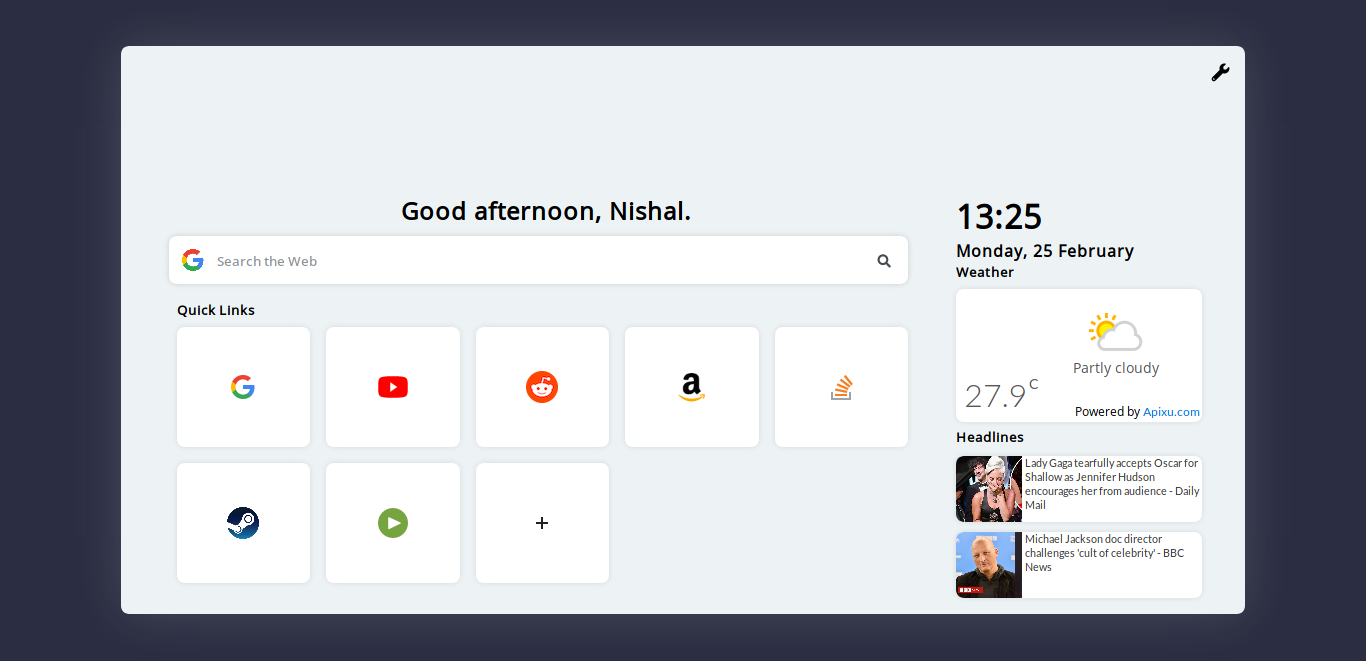
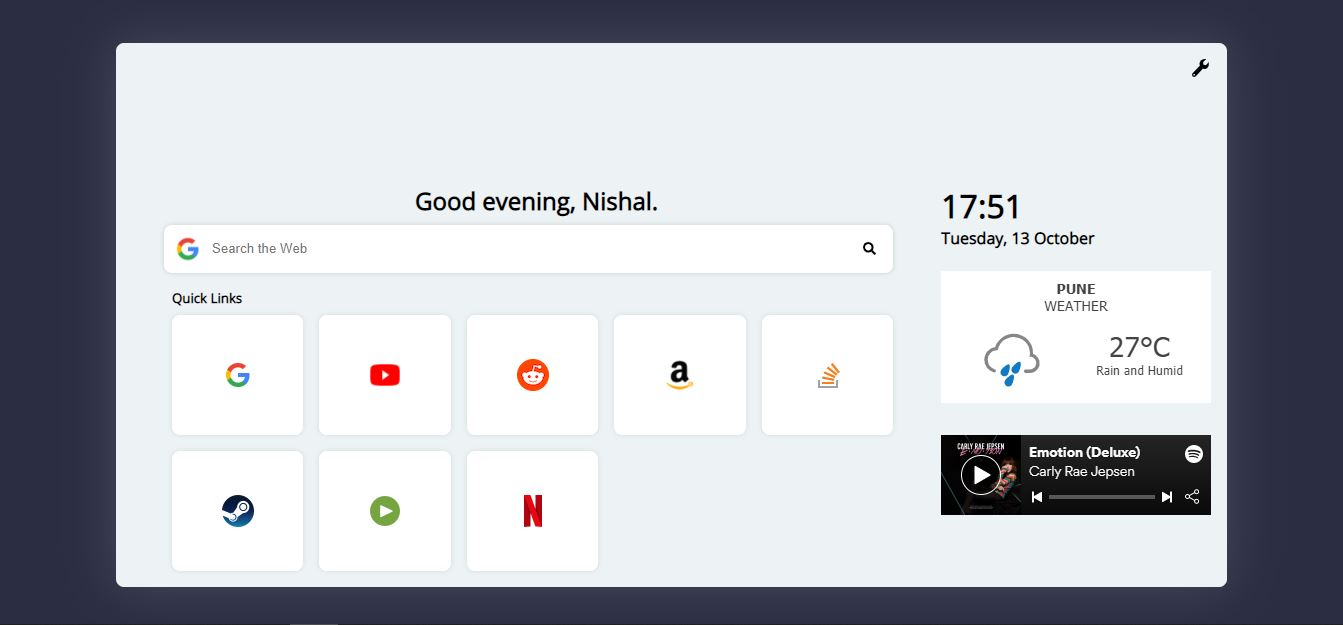
Added Widgets

diff --git a/index.html b/index.html
@@ -44,7 +44,7 @@
             <a href="https://www.amazon.in"><img src="https://www.amazon.in/favicon.ico" width="32px" /></a>
           </div>
           <div class="link-tab">
-            <a href="https://www.stackoverflow.com"><img src="https://www.stackoverflow.com/favicon.ico" width="32px" /></a>
+            <a href="https://www.stackoverflow.com"><img src="https://cdn.sstatic.net/Sites/stackoverflow/img/favicon.ico" width="32px" /></a>
           </div>
           <div class="link-tab">
             <a href="https://www.steamcommunity.com"><img src="https://www.steamcommunity.com/favicon.ico" width="32px" /></a>
@@ -53,7 +53,7 @@
             <a href="https://www.primevideo.com"><img src="https://www.primevideo.com/favicon.ico" width="32px" /></a>
           </div>
           <div class="link-tab add-tab">
-            <a href="https://www.google.com"></a>
+            <a href="https://www.netflix.com"><img src="https://www.netflix.com/favicon.ico" width="32px" /></a>
           </div>
         </div>
       </div>
@@ -64,26 +64,23 @@
         <h1 id="clock"></h1>
         <h4 id="date"></h4>
       </div>
+      <br>
       <div class="weather">
-        <h5>Weather</h5>
+        
         <div class="weather-card">
-          <h1 id="temp" class="temperature">29<span>C</span></h1>
-          <div id="temp-icon" class="weather-icon">
-            <p id="icon-description"></p>
-          </div>
-          <p class="weather-credit">
-            Powered by
-            <a href="https://www.apixu.com/" target="_blank" title="Weather API">Apixu.com</a>
-          </p>
-        </div>
+          <a class="weatherwidget-io" href="https://forecast7.com/en/18d5273d86/pune/" data-label_1="PUNE" data-label_2="WEATHER" data-mode="Current" data-theme="pure" >PUNE WEATHER</a>
+          <script>
+          !function(d,s,id){var js,fjs=d.getElementsByTagName(s)[0];if(!d.getElementById(id)){js=d.createElement(s);js.id=id;js.src='https://weatherwidget.io/js/widget.min.js';fjs.parentNode.insertBefore(js,fjs);}}(document,'script','weatherwidget-io-js');
+          </script>
       </div>
-      <div class="news">
-        <h5>Headlines</h5>
-        <div id="news-section">
+      <br>
+      <div class="song">
+      
+        <iframe src="https://open.spotify.com/embed/album/1DFixLWuPkv3KT3TnV35m3" width="270" height="80" frameborder="0" allowtransparency="true" allow="encrypted-media"></iframe>
         </div>
       </div>
     </div>
   </div>
-</body>
+</body>s
 
 </html>

diff --git a/style.css b/style.css
@@ -173,15 +173,7 @@ body {
   transition: 0.5s;
 }
 
-.weather-card {
-  width: 90%;
-  height: 20vh;
-  background: white;
-  margin: 8px 0 0 0;
-  border-radius: 8px;
-  box-shadow: 0 0 5px rgba(0, 0, 0, 0.1);
-  position: relative;
-}
+
 
 .temperature {
   font-family: 'Lato', cursive;
@@ -232,45 +224,7 @@ body {
   color: #0073db;
 }
 
-.news {
-  margin-top: 5px;
+.song {
+  margin-top: 10px;
 }
 
-.news a {
-  text-decoration: none;
-  color: black;
-  outline: none;
-}
-
-.news-tab {
-  cursor: pointer;
-  width: 90%;
-  height: 10%;
-  background: white;
-  margin: 10px 0 0 0;
-  border-radius: 8px;
-  box-shadow: 0 0 5px rgba(0, 0, 0, 0.1);
-  overflow: hidden;
-  position: relative;
-  display: flex;
-}
-
-.news-left {
-  width: 10vh;
-  height: 10vh;
-  background: rgba(12, 12, 13, 0.1);
-}
-
-.news-right {
-  width: calc(100% - 10vh);
-  float: right;
-  margin-left: 3px;
-  height: 10vh;
-  overflow: hidden;
-}
-
-.news-title {
-  font-weight: 500;
-  font-family: 'Lato', cursive;
-  color: #383838;
-}
